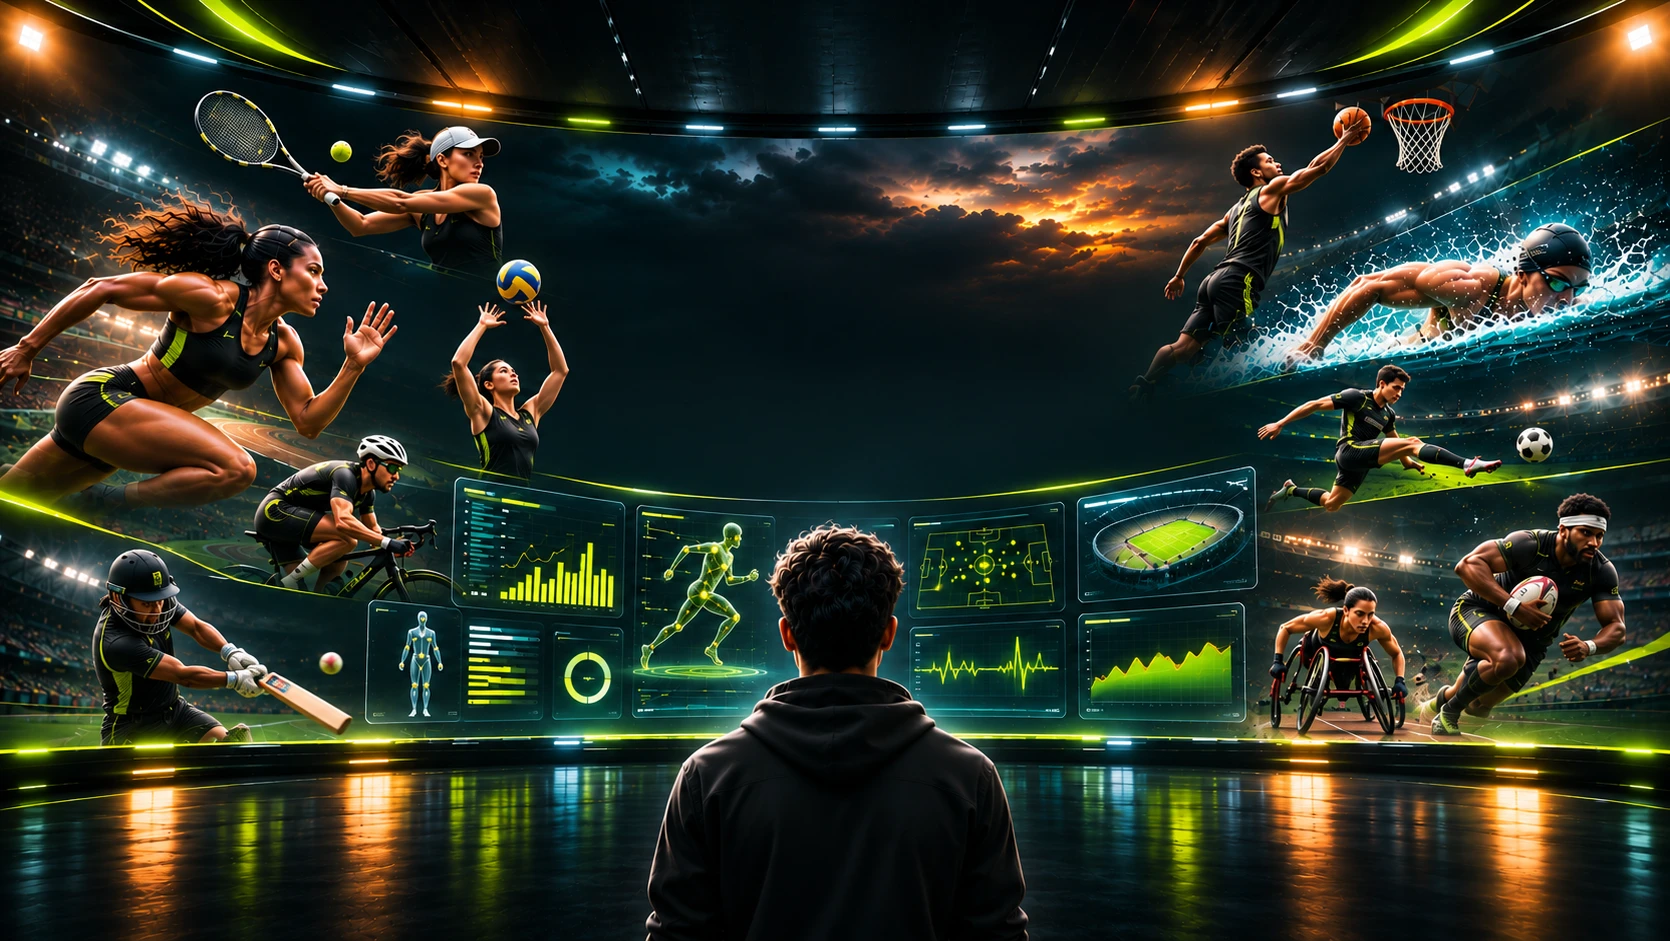
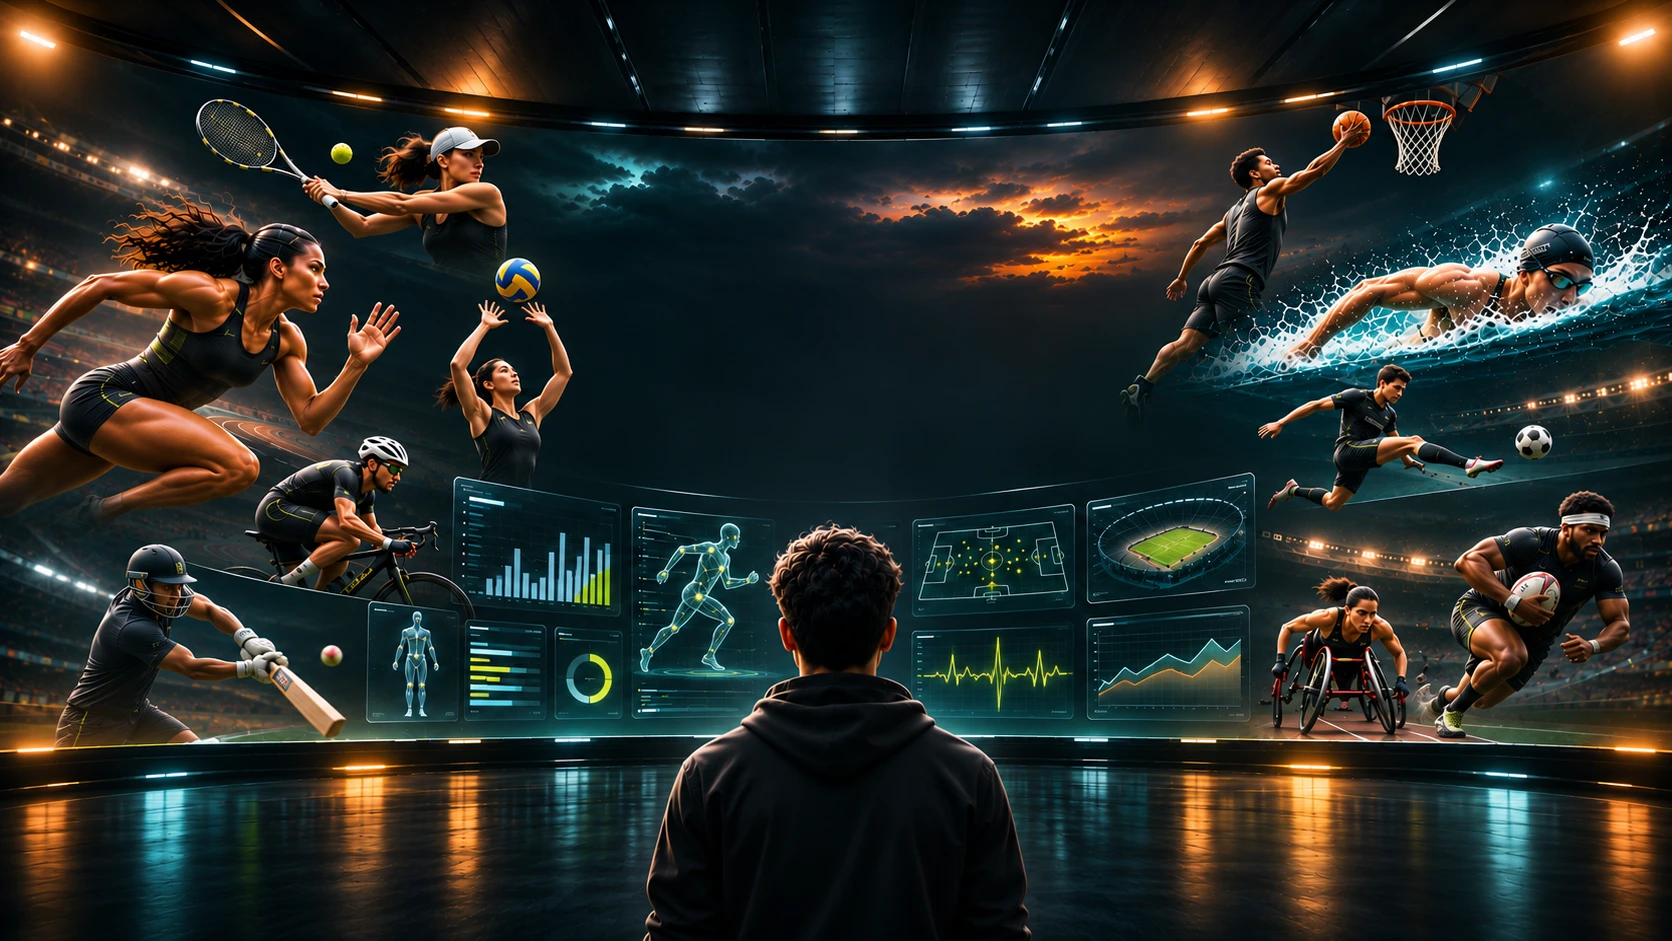
Final Gateway artwork; every photograph shown whole on every device
- Gateway: image 18 (lime only in small accents, so the centre pulse leads)
- Gateway fits the whole artwork on every screen; portrait shows it full width
  with the logo above and the button below
- Explorer thumbnails, area strip, panel header and phone hero band use the
  photos' own shapes (16:9; hero 1318:1193), so nothing is cropped
- Area backdrop and process photo shown whole, fading at their own edges
- CLAUDE.md: photographs are never cropped

Claude-Session: https://claude.ai/code/session_01F1RUf5ZQ5HVhPWDPwEZ9Ew

diff --git a/src/app/globals.css b/src/app/globals.css
@@ -303,27 +303,33 @@
    that fades into black at its edges. */
 /* Behind text: the one deliberately dimmed context (keeps every label >= 4.5:1). */
 .area-backdrop-img {
+  inset: auto;
+  left: 50%;
+  top: 0;
+  height: 100%;
+  aspect-ratio: 16 / 9;
+  max-width: 100%;
+  transform: translateX(-50%);
   opacity: 0.36;
   filter: brightness(0.6);
-}
-.area-backdrop {
+  /* the whole photograph (never cropped), melting into black on its own edges */
   -webkit-mask-image:
-    linear-gradient(to right, transparent 0%, #000 22%, #000 78%, transparent 100%),
-    linear-gradient(to bottom, transparent 0%, #000 28%, #000 46%, transparent 68%);
+    linear-gradient(to right, transparent 0%, #000 18%, #000 82%, transparent 100%),
+    linear-gradient(to bottom, transparent 0%, #000 22%, #000 62%, transparent 100%);
   -webkit-mask-composite: source-in;
   mask-image:
-    linear-gradient(to right, transparent 0%, #000 22%, #000 78%, transparent 100%),
-    linear-gradient(to bottom, transparent 0%, #000 28%, #000 46%, transparent 68%);
+    linear-gradient(to right, transparent 0%, #000 18%, #000 82%, transparent 100%),
+    linear-gradient(to bottom, transparent 0%, #000 22%, #000 62%, transparent 100%);
   mask-composite: intersect;
 }
 .area-strip {
   -webkit-mask-image:
-    linear-gradient(to right, transparent 0%, #000 12%),
-    linear-gradient(to bottom, #000 60%, transparent 100%);
+    linear-gradient(to right, transparent 0%, #000 6%, #000 94%, transparent 100%),
+    linear-gradient(to bottom, #000 80%, transparent 100%);
   -webkit-mask-composite: source-in;
   mask-image:
-    linear-gradient(to right, transparent 0%, #000 12%),
-    linear-gradient(to bottom, #000 60%, transparent 100%);
+    linear-gradient(to right, transparent 0%, #000 6%, #000 94%, transparent 100%),
+    linear-gradient(to bottom, #000 80%, transparent 100%);
   mask-composite: intersect;
 }
 
@@ -395,9 +401,12 @@
 .process-photo {
   --pad-top: clamp(2.75rem, 1.6rem + 3.6vw, 5.5rem); /* = section-y */
   top: calc(-1 * var(--pad-top));
-  left: calc(48rem + 2rem);
-  width: calc((100cqw - 100%) / 2 + 100% - 50rem);
+  /* right edge bleeds to the screen edge; the height ends where the rail begins; the width follows
+     the photograph's own 16:9 shape, so it is shown whole (never cropped) */
+  right: calc((100% - 100cqw) / 2);
   height: max(calc(100% + var(--pad-top)), 15rem);
+  aspect-ratio: 16 / 9;
+  max-width: calc((100cqw - 100%) / 2 + 100% - 50rem);
   opacity: 1;
   /* same soft-edge language as the hero: long fades on the inner edges, right edge bleeds off */
   -webkit-mask-image:
@@ -474,20 +483,34 @@ body:has([data-gateway-page]) footer {
    athletes reach the edges), anchored at the top; any spare height below is the near-black floor
    fading into the page. Wider screens (16:9 and up) are covered exactly as before. */
 .gw-stage {
-  --gw-y: 0%;
+  --gw-y: -50%;
   position: absolute;
   left: 50%;
-  top: 0;
-  width: max(100vw, 160vh);
+  top: 50%;
+  width: min(100vw, 177.78vh);
   aspect-ratio: 16 / 9;
   transform: translate(-50%, var(--gw-y));
   container-type: inline-size;
   transition: transform 700ms var(--ease-out-quart);
 }
+/* The whole artwork is always shown (never cropped): it fits the screen and only its outermost
+   edges melt into the black page. */
 .gw-art {
   --tone: brightness(0.92) saturate(0.92); /* settles the artwork to the homepage's level */
-  -webkit-mask-image: linear-gradient(to bottom, #000 88%, transparent);
-  mask-image: linear-gradient(to bottom, #000 88%, transparent);
+  -webkit-mask-image: linear-gradient(to bottom, transparent 0%, #000 4%, #000 90%, transparent 100%);
+  mask-image: linear-gradient(to bottom, transparent 0%, #000 4%, #000 90%, transparent 100%);
+}
+@media (min-aspect-ratio: 16 / 9) {
+  .gw-art {
+    -webkit-mask-image:
+      linear-gradient(to right, transparent 0%, #000 4%, #000 96%, transparent 100%),
+      linear-gradient(to bottom, #000 90%, transparent 100%);
+    -webkit-mask-composite: source-in;
+    mask-image:
+      linear-gradient(to right, transparent 0%, #000 4%, #000 96%, transparent 100%),
+      linear-gradient(to bottom, #000 90%, transparent 100%);
+    mask-composite: intersect;
+  }
 }
 .gw-identity {
   position: absolute;
@@ -512,25 +535,22 @@ body:has([data-gateway-page]) footer {
   transform: translateX(-50%);
   white-space: nowrap;
 }
+/* Portrait screens: the whole artwork across the width, the brand above it and the button below. */
 @media (orientation: portrait) {
   .gw-stage {
-    --gw-y: -50%;
-    width: 190vw;
-    top: 40%;
-  }
-  .gw-art {
-    -webkit-mask-image: linear-gradient(to bottom, transparent 0%, #000 12%, #000 80%, transparent 100%);
-    mask-image: linear-gradient(to bottom, transparent 0%, #000 12%, #000 80%, transparent 100%);
+    top: 52%;
   }
   .gw-identity {
-    top: 29%;
-    width: 24cqw;
+    top: auto;
+    bottom: calc(100% + 1.75rem);
+    width: min(56cqw, 20rem);
+    gap: 0.75rem;
   }
   .gw-pulse {
-    width: 32cqw;
+    width: min(80cqw, 28rem);
   }
   .gw-enter {
-    top: calc(100% + 1.5rem);
+    top: calc(100% + 2rem);
   }
 }
 /* One light runs along the pulse, like the homepage signal. */

diff --git a/src/components/explorer/DomainExplorer.tsx b/src/components/explorer/DomainExplorer.tsx
@@ -462,7 +462,7 @@ export function DomainExplorer({
                             img={areaImage(z.id)}
                             sizes="96px"
                             state={on && hydrated ? "hidden" : openZone === null ? "idle" : "off"}
-                            className="aspect-[3/2] w-[4.5rem] shrink-0 md:w-24"
+                            className="aspect-[16/9] w-[4.5rem] shrink-0 md:w-24"
                           />
                         )}
                       </button>
@@ -509,9 +509,9 @@ export function DomainExplorer({
                                   {hydrated && (
                                     <Preview
                                       img={panelImage(c.id, z.id)}
-                                      sizes="80px"
+                                      sizes="96px"
                                       state={on && activeCap === j ? "on" : "idle"}
-                                      className="aspect-[4/3] w-11 shrink-0 min-[380px]:w-12 md:w-20"
+                                      className="aspect-[16/9] w-14 shrink-0 min-[380px]:w-16 md:w-24"
                                     />
                                   )}
                                   <ArrowRight
@@ -750,7 +750,7 @@ function AreaStrip({ zoneId, reduce }: { zoneId: string; reduce: boolean }) {
   return (
     <m.div
       aria-hidden="true"
-      className="area-strip relative mt-3 aspect-[12/5] w-full overflow-hidden md:aspect-[3/1]"
+      className="area-strip relative mt-3 aspect-[16/9] w-full overflow-hidden"
       initial={{ opacity: 0 }}
       animate={{ opacity: 1 }}
       transition={{ duration: reduce ? 0 : 0.5 }}

diff --git a/src/components/explorer/DomainPanel.tsx b/src/components/explorer/DomainPanel.tsx
@@ -147,7 +147,7 @@ export function DomainPanel({
                     /* IMAGE PILOT: full-bleed header that fades into the panel (shorter on phones) */
                     <div
                       aria-hidden="true"
-                      className="relative -mx-6 -mt-8 mb-6 aspect-[16/7] overflow-hidden md:-mx-10 md:aspect-[2/1]"
+                      className="relative -mx-6 -mt-8 mb-6 aspect-[16/9] overflow-hidden md:-mx-10"
                     >
                       <Image
                         src={headerImage.src}

diff --git a/src/components/scenes/HeroScene.tsx b/src/components/scenes/HeroScene.tsx
@@ -89,7 +89,7 @@ export function HeroScene() {
         <div
           id="hero-band"
           aria-hidden="true"
-          className="hero-band hero-fade pointer-events-none relative mt-4 mx-[calc(50%-50vw)] aspect-[4/3] md:aspect-[3/2] lg:hidden"
+          className="hero-band hero-fade pointer-events-none relative mt-4 mx-[calc(50%-50vw)] aspect-[1318/1193] lg:hidden"
           style={delay(1000)}
         >
           <picture>

diff --git a/src/components/scenes/ProcessScene.tsx b/src/components/scenes/ProcessScene.tsx
@@ -92,8 +92,7 @@ export function ProcessScene() {
               alt=""
               fill
               sizes="45vw"
-              className="photo object-cover"
-              style={{ objectPosition: processImage.position }}
+              className="photo object-contain object-right-top"
             />
           </div>
           <p className="label relative text-subtle">How Revivo works</p>

diff --git a/CLAUDE.md b/CLAUDE.md
@@ -118,7 +118,14 @@ Story: live sports signal → Revivo intelligence → solution domains → organ
   homepage-style pulse (CSS light, hidden under reduced motion) and a real "Enter Revivo" link to `/home`. No site
   header/footer on this page. Old deep links (`/#start`, `/#explore`…) are forwarded to `/home#…`.
 - `/home` — the full homepage (`src/app/home/page.tsx`). Logo, nav, CTAs and "Back to the homepage" link here.
-- Portrait screens show the Gateway artwork as a 190vw panorama with the button beneath.
+- The whole artwork is always shown: landscape screens fit it (min(100vw, 16:9 of the height)); portrait screens
+  show it across the full width with the logo and pulse above it and the button beneath.
+
+## 5c. Photographs are never cropped (owner decision, Nov 2026)
+
+Every photograph is shown whole on every device: each frame uses the photo's own shape (16:9 for the set; the
+hero photo 1318:1193), so `object-cover` never trims anything. Atmospheric photos (area backdrop, process photo)
+fade at their own edges instead of being cut. Check with the crop audit before changing any image frame.
 
 ## 6. Component structure
 
